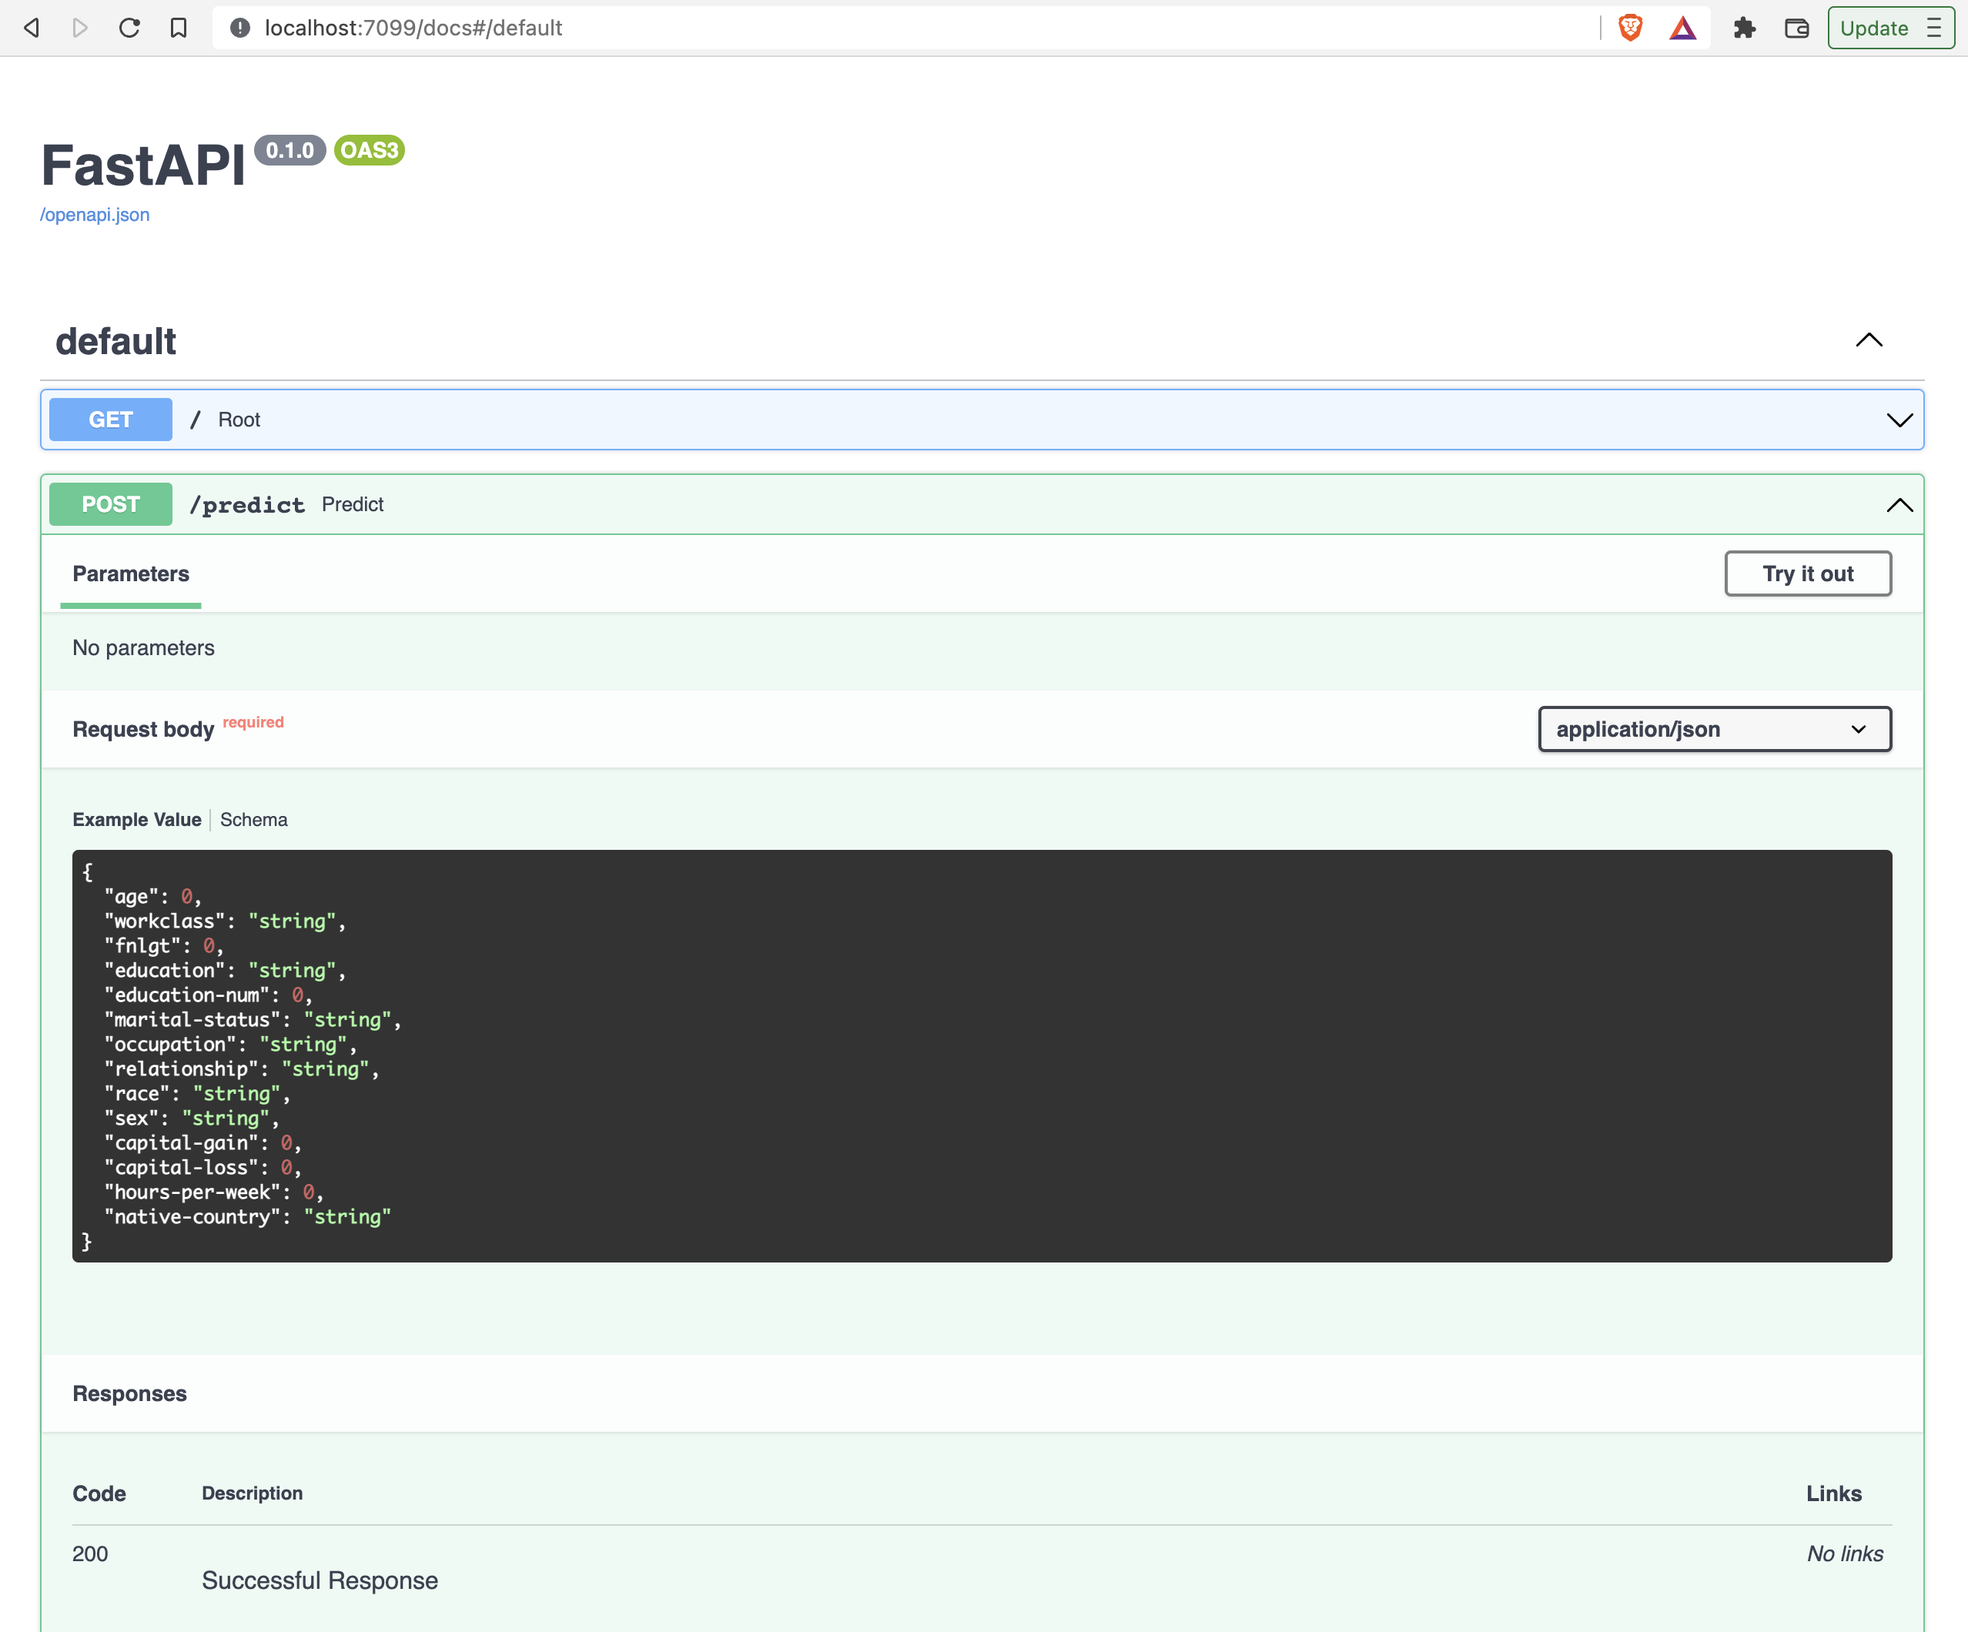
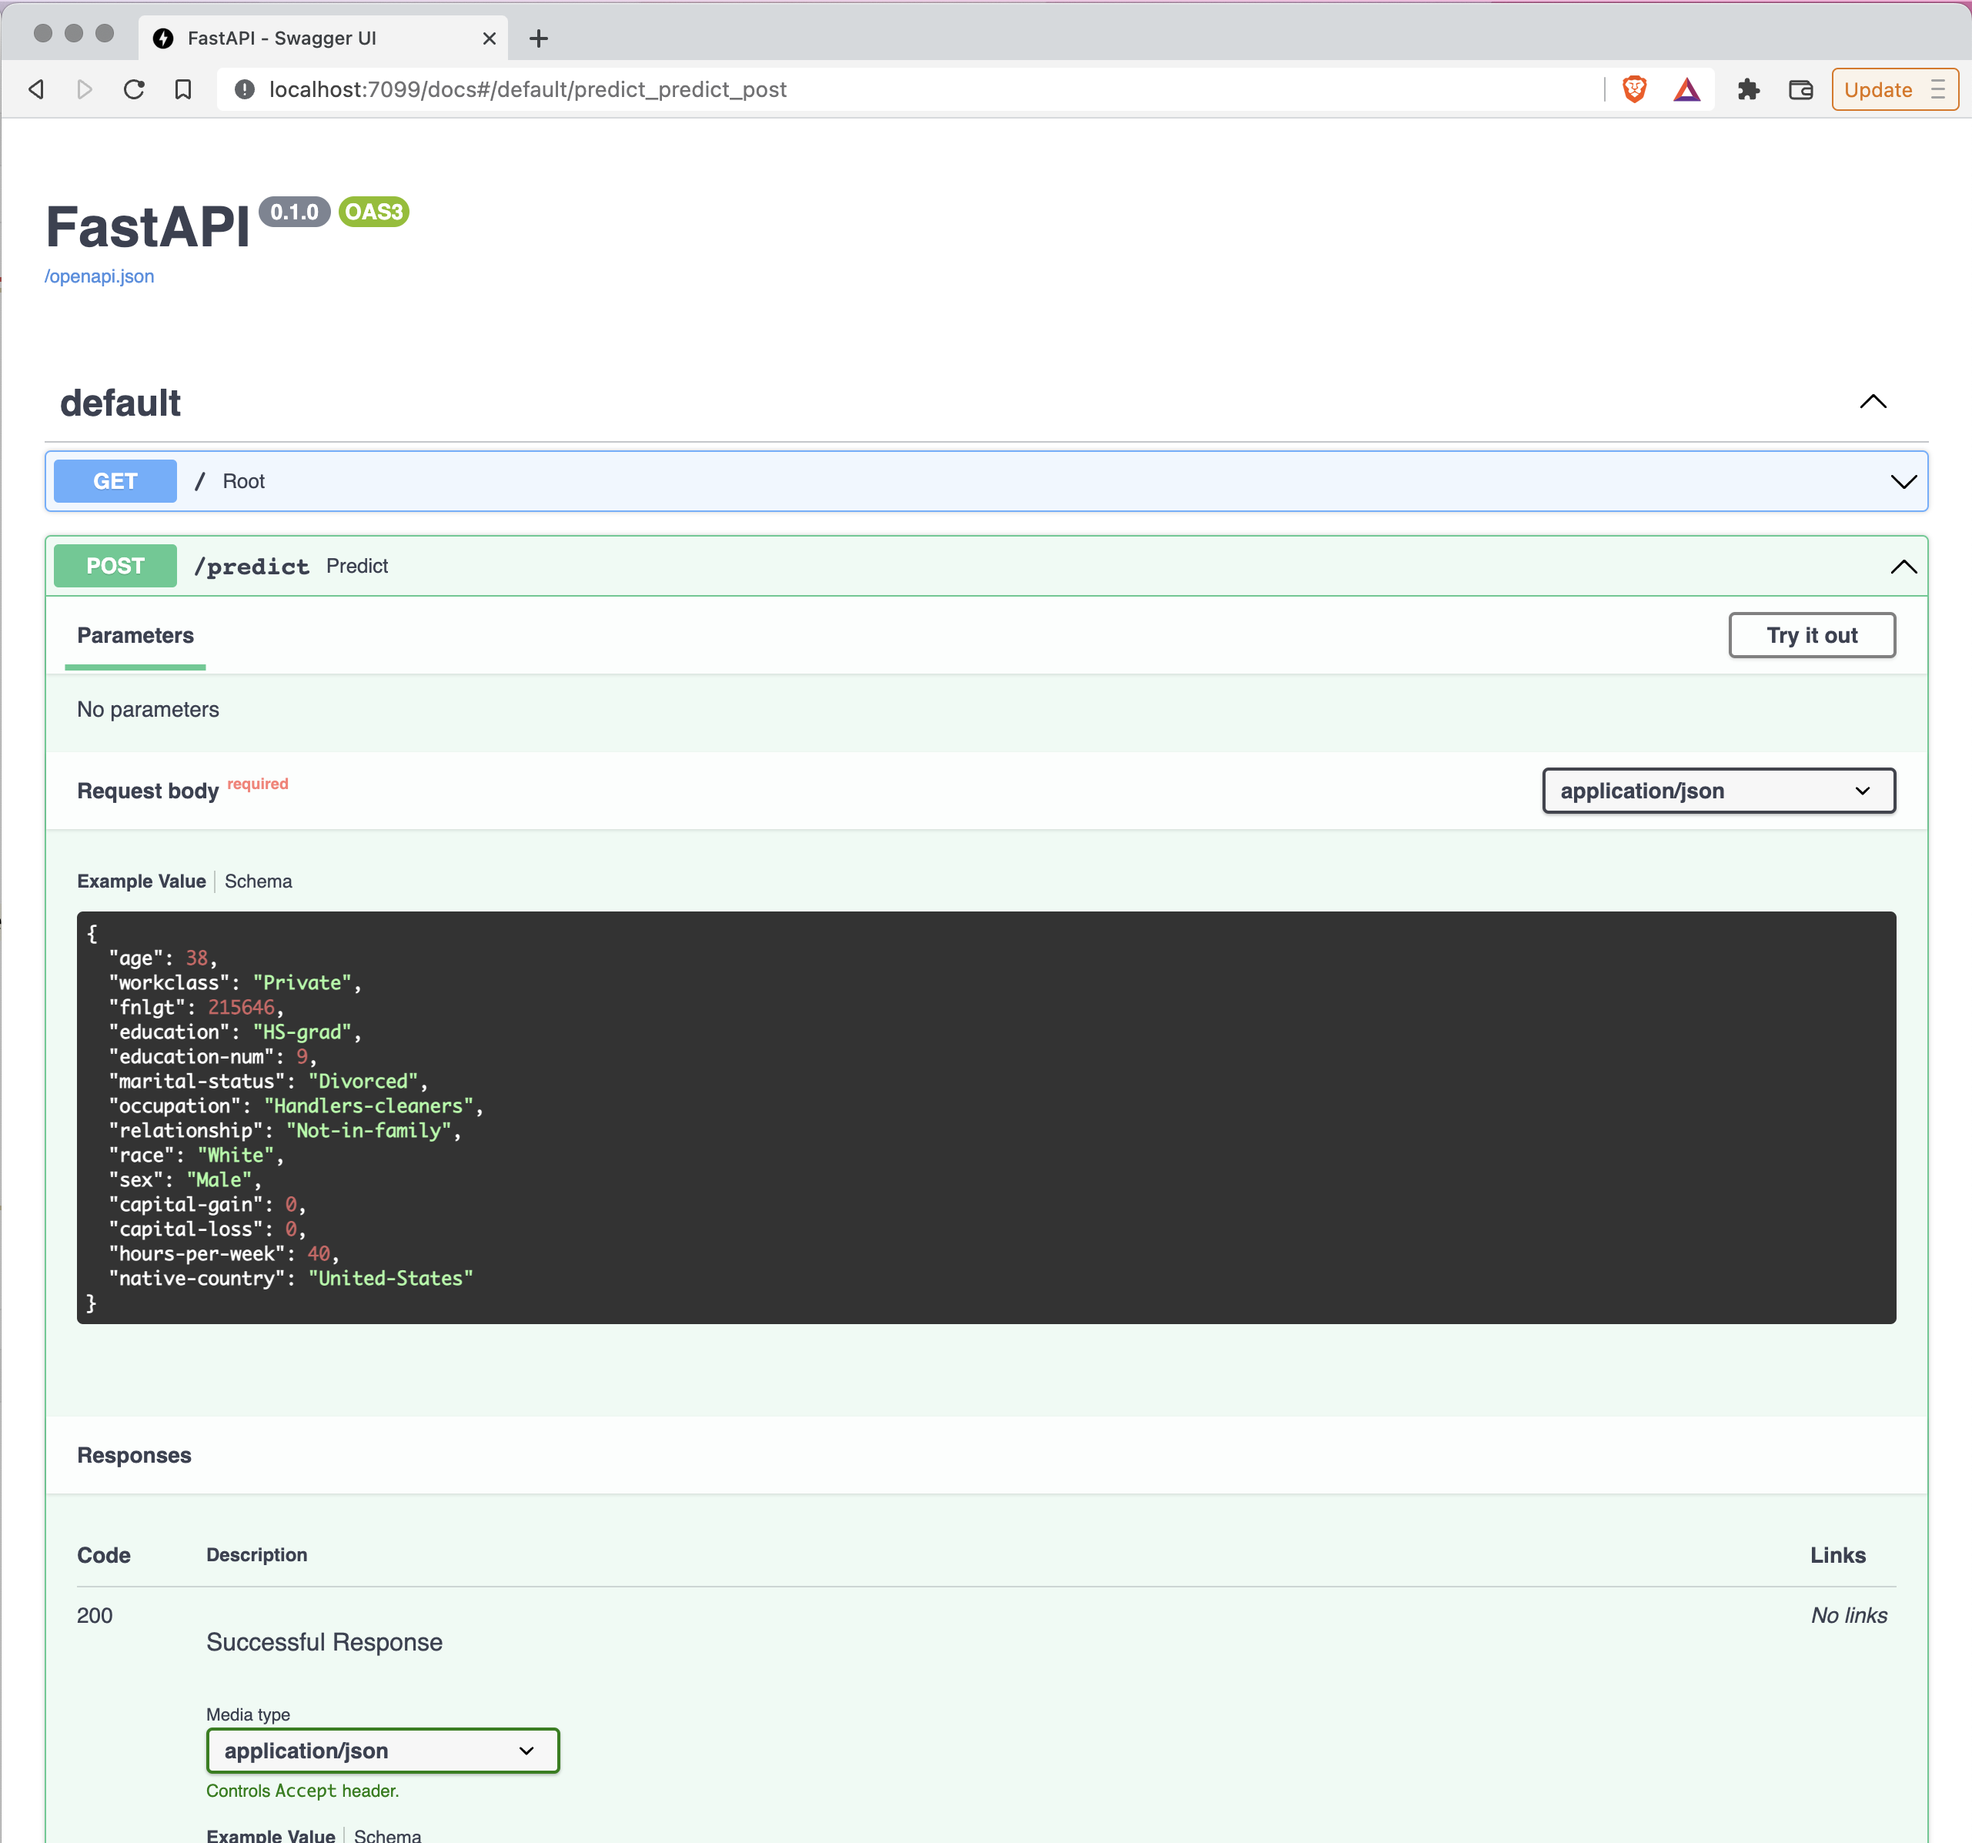
Ensure docs screenshot contains valid example

diff --git a/main.py b/main.py
@@ -64,7 +64,7 @@ class FeatureSet(BaseModel):
     native_country: str = Field(alias="native-country")
 
     class Config:
-        schema_extra = {"negative": negative_sample, "positive": positive_sample}
+        schema_extra = {"example": negative_sample, "example2": positive_sample}
 
 
 app = FastAPI()
